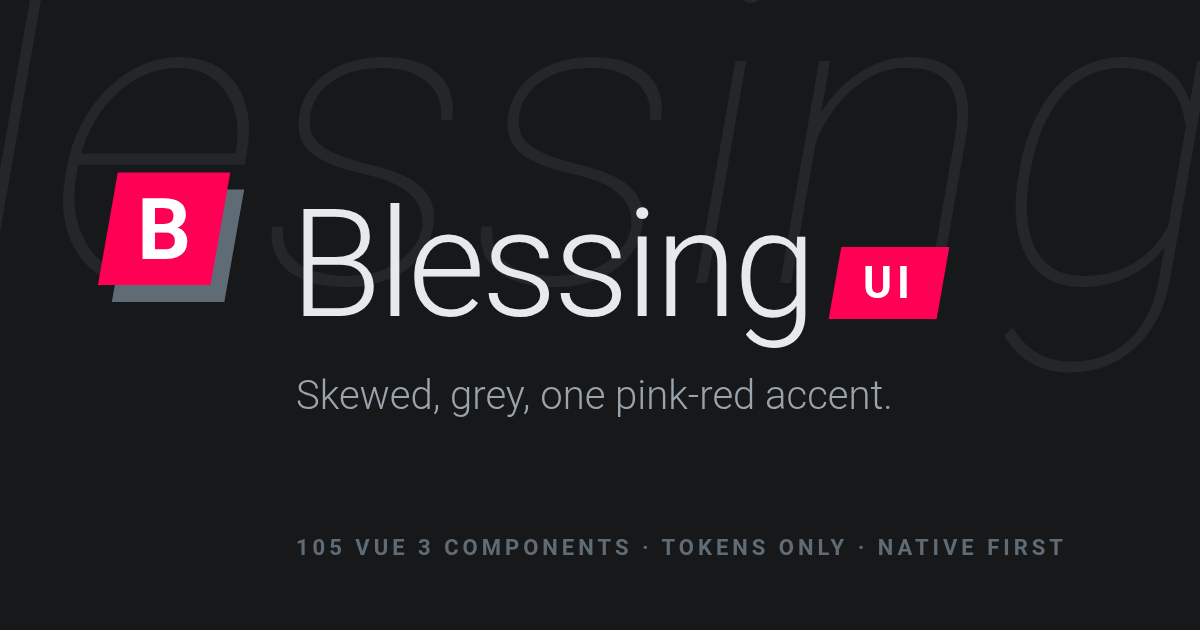
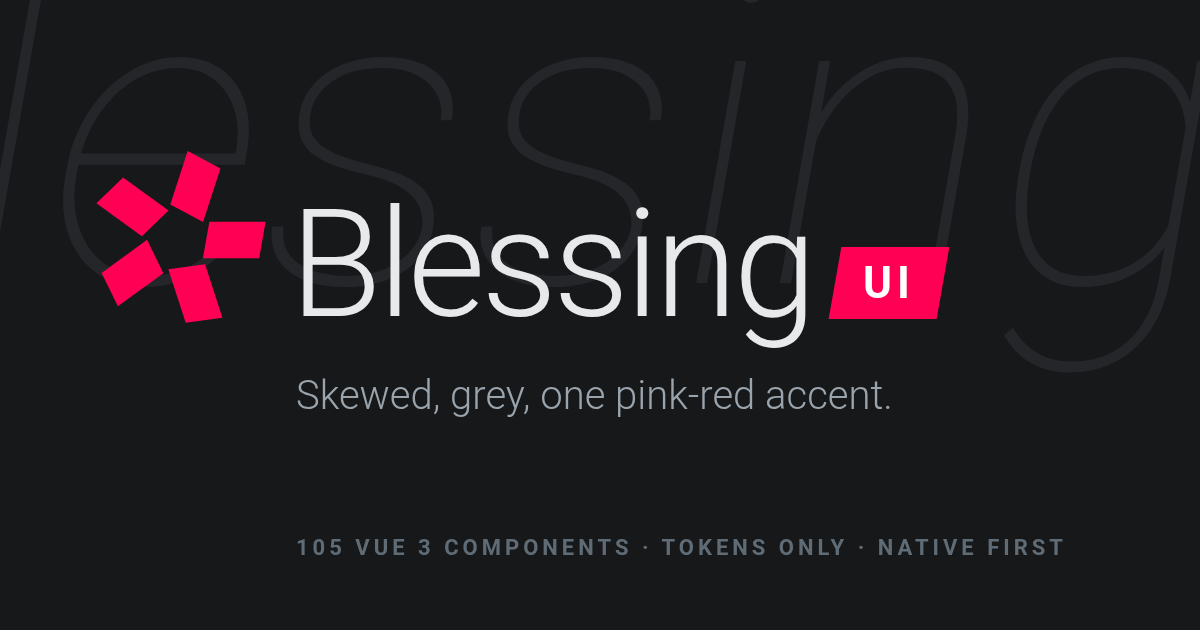
brand: the mark is a five-petal flower of skewed plates
Five of the system's parallelograms in a ring, one accent, no centre —
a nod to the fictional circle's flower logo, redrawn from our own
geometry. Replaces the B-plate mark, favicon, hero image and OG; one
asset serves light and dark, so logo-dark / logo-thin are gone. Brand
page and Story updated; duplicate sidebar entry removed.

Changed region(s): [[0.0617, 0.2413, 0.2467, 0.5127]]

diff --git a/docs/.vitepress/config.ts b/docs/.vitepress/config.ts
@@ -35,7 +35,7 @@ export default defineConfig({
     ],
   ],
   themeConfig: {
-    logo: { light: "/logo.svg", dark: "/logo-dark.svg" },
+    logo: "/logo.svg",
     siteTitle: "Blessing",
     nav: [
       { text: "Guide", link: "/guide/install" },
@@ -53,7 +53,6 @@ export default defineConfig({
             { text: "Fonts", link: "/guide/fonts" },
             { text: "Conventions", link: "/guide/conventions" },
             { text: "useScrollSpy", link: "/guide/scroll-spy" },
-            { text: "useAnimateOnScroll", link: "/guide/animate-on-scroll" },
             { text: "useAnimateOnScroll", link: "/guide/animate-on-scroll" },
             { text: "Brand", link: "/guide/brand" },
             { text: "Story", link: "/guide/story" },

diff --git a/docs/guide/brand.md b/docs/guide/brand.md
@@ -2,11 +2,11 @@
 
 Blessing UI's identity is the design system itself — nothing is added for the logo that a component doesn't already use. Where the system came from is the [story](./story).
 
-<div class="row" style="align-items:center;gap:24px;margin:16px 0 8px">
-  <img src="/logo-mono.svg" width="96" height="96" alt="" style="color:var(--bless-color-text)">
-  <img src="/logo-mono.svg" width="48" height="48" alt="" style="color:var(--bless-color-text)">
-  <img src="/logo-mono.svg" width="24" height="24" alt="" style="color:var(--bless-color-text)">
-  <img src="/logo-thin.svg" width="96" height="96" alt="">
+<div style="display:flex;align-items:center;gap:24px;margin:16px 0 8px">
+  <img src="/logo.svg" width="96" height="96" alt="">
+  <img src="/logo.svg" width="48" height="48" alt="">
+  <img src="/logo.svg" width="24" height="24" alt="">
+  <img src="/logo.svg" width="16" height="16" alt="">
 </div>
 
 ## Five elements
@@ -21,15 +21,13 @@ Blessing UI's identity is the design system itself — nothing is added for the 
 
 ## Mark
 
-Two skewed plates, the back one in the text colour, the front in the accent, with a bold counter-skewed **B**. Legible at 16px (favicon). The hero variant knocks a Roboto Thin B out of a single plate and is for large sizes only (≥ 96px).
+Five skewed plates in a ring. Each petal is the same parallelogram every label in the system uses, rotated 72° apart, in the one accent. It answers the name: the fictional circle Blessing is named after has a five-petal flower for a logo — see the [story](./story). Ours is re-drawn from the system's own geometry, one colour, no centre; nothing of theirs is in it.
 
-| File                              | Use                                                |
-| --------------------------------- | -------------------------------------------------- |
-| [`logo.svg`](/logo.svg)           | light backgrounds                                  |
-| [`logo-dark.svg`](/logo-dark.svg) | dark backgrounds (muted back plate)                |
-| [`logo-mono.svg`](/logo-mono.svg) | inline `<svg>`/`<img>` where `currentColor` is set |
-| [`logo-thin.svg`](/logo-thin.svg) | hero / OG only                                     |
-| [`favicon.svg`](/favicon.svg)     | tab icon                                           |
+| File                              | Use                                                                  |
+| --------------------------------- | -------------------------------------------------------------------- |
+| [`logo.svg`](/logo.svg)           | any background — the accent works on light and dark                  |
+| [`logo-mono.svg`](/logo-mono.svg) | inline `<svg>` where `currentColor` should drive it (footers, print) |
+| [`favicon.svg`](/favicon.svg)     | tab icon                                                             |
 
 ## Wordmark
 
@@ -39,8 +37,8 @@ Two skewed plates, the back one in the text colour, the front in the accent, wit
 
 ## Rules
 
-- Keep the skew. Don't unskew, rotate, round, or outline the plates.
-- One accent. No gradients, no second colour; the back plate is always a grey from the text scale.
-- Clear space = the height of the front plate's offset (8px at 64px) on all sides.
-- Minimum size 16px for the mark, 96px for the thin variant.
+- Keep the skew and the five. Don't unskew, round, outline, or re-space the petals; don't add a centre.
+- One accent. No gradients, no second colour, no per-petal colours.
+- Clear space = one petal width on all sides.
+- Minimum size 16px.
 - Don't set the wordmark in any weight other than 100/300, and don't letterspace it.

diff --git a/docs/guide/story.md b/docs/guide/story.md
@@ -10,7 +10,7 @@ It read as a design system that nobody had written down. So we wrote it down.
 
 ## The name
 
-In the story, the protagonist founds a doujin game circle and calls it **Blessing Software**. A component library is the kind of thing that circle would have shipped. The name is a nod in that direction and nothing more — see the note at the bottom.
+In the story, the protagonist founds a doujin game circle and calls it **Blessing Software**. A component library is the kind of thing that circle would have shipped. The circle's logo in the series is a five-petal flower; our mark is five of our own skewed plates in a ring, one colour, drawn from the system rather than from the show. The name and the shape are nods in that direction and nothing more — see the note at the bottom.
 
 ## What was kept
 

diff --git a/README.md b/README.md
@@ -1,8 +1,5 @@
 <p align="center">
-  <picture>
-    <source media="(prefers-color-scheme: dark)" srcset="docs/public/logo-dark.svg">
-    <img src="docs/public/logo.svg" width="96" height="96" alt="">
-  </picture>
+  <img src="docs/public/logo.svg" width="96" height="96" alt="">
 </p>
 
 # Blessing UI

diff --git a/docs/index.md b/docs/index.md
@@ -5,7 +5,7 @@ hero:
   name: Blessing UI
   text: Skewed, grey, one pink-red accent.
   image:
-    src: /logo-thin.svg
+    src: /logo.svg
     alt: Blessing UI
   tagline: A Vue 3 component library with a face. Thin type, skewed labels, and the browser's own parts underneath.
   actions:
